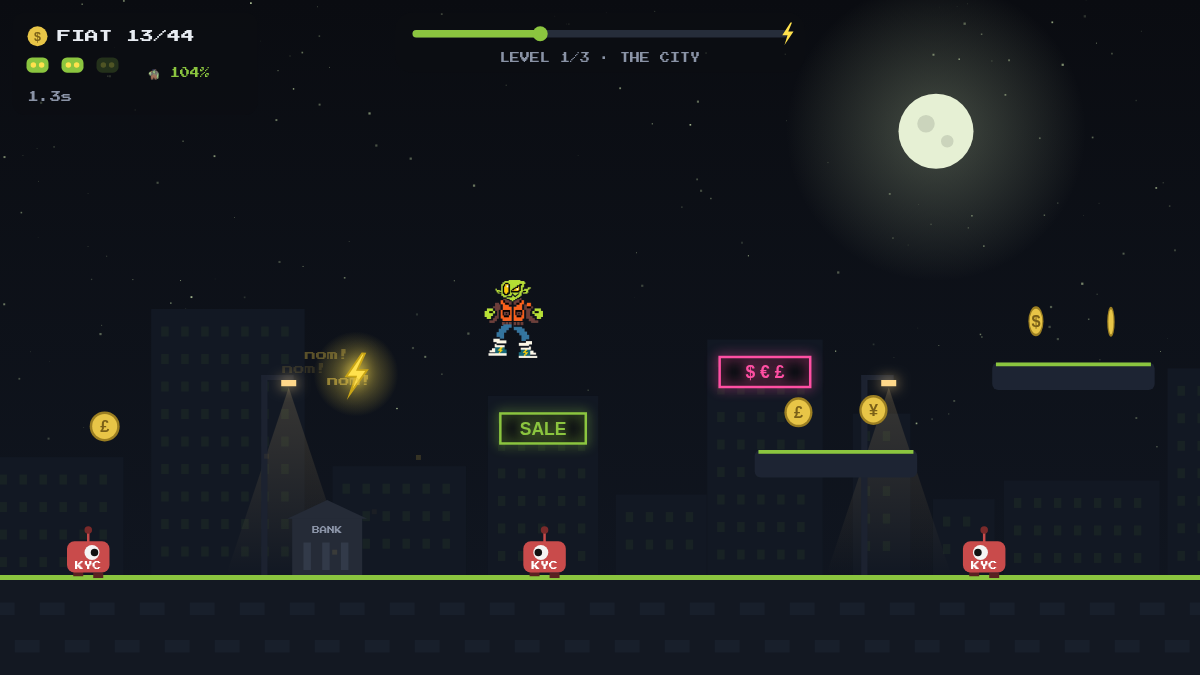
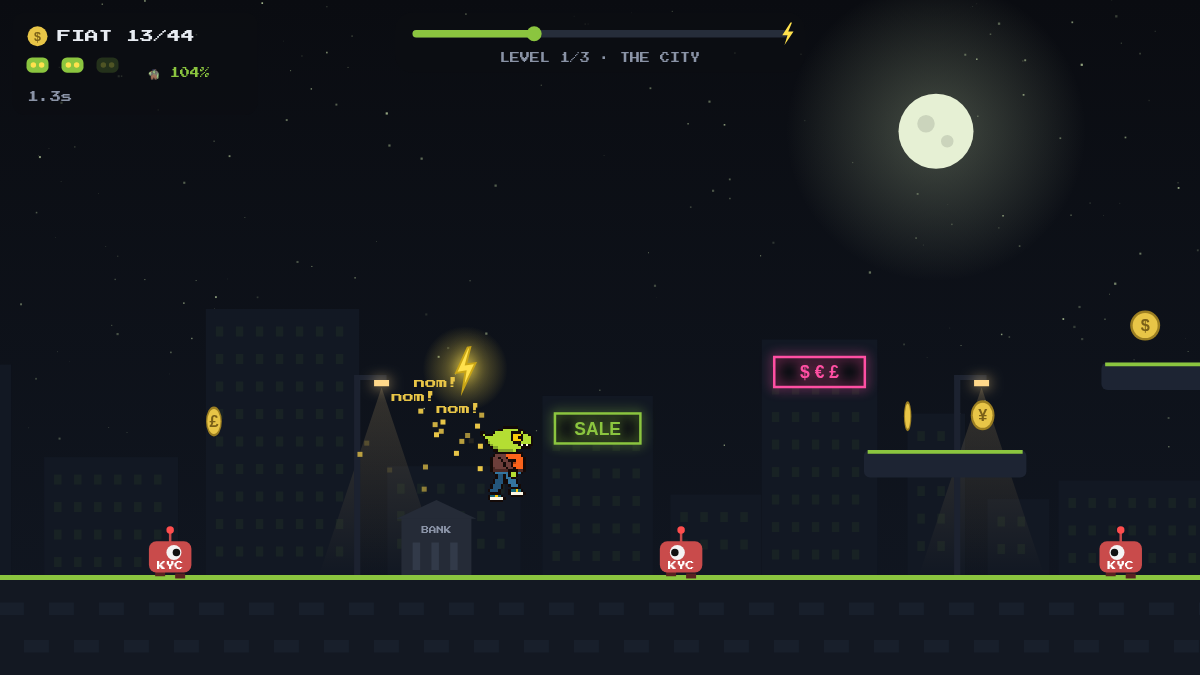
feat: Mostro walks in profile with a walk cycle and faces where he goes
- New side-view Mostro sprite, drawn in code as pixel art with the
  original palette: profile head with the yellow eye and teeth, orange
  vest, brown jacket, jeans and the bolt sneakers.
- Six-frame walk cycle (alternating legs, arm swing, body bob) that
  advances with speed, plus idle and jump poses.
- The sprite mirrors when Mostro moves left.
- Aylu's front-facing sprite stays on the start screen; the unused second
  front frame is removed.
- Refresh the teaser / og:image screenshot with the new sprite.

Claude-Session: https://claude.ai/code/session_016wLvLzD3KPHNEqhAUM2F8M

diff --git a/src/pages/run/_game.html b/src/pages/run/_game.html
@@ -588,6 +588,7 @@ function update(){
   else if(keys.right){p.vx=Math.min(p.vx+.6,maxV);p.face=1;}
   else p.vx*=.78;
   if(Math.abs(p.vx)<.05)p.vx=0;
+  p.walk=((p.walk||0)+Math.abs(p.vx)*.06)%6; // walk-cycle frame, advances with speed
   p.coyote=p.onGround?6:p.coyote-1;
   if(keys.jumpPressed){p.jumpBuf=8;keys.jumpPressed=false;}else p.jumpBuf--;
   if(p.jumpBuf>0&&p.coyote>0){p.vy=boost?-13.6:-12.8;p.coyote=0;p.jumpBuf=0;sfx('jump');}
@@ -953,9 +954,73 @@ function drawIllumination(){
 }
 
 // ================= drawing: characters =================
-const MSPR=[new Image(),new Image()];
+// Front-facing Mostro by Aylu, shown on the start screen.
+const MSPR=[new Image()];
[2 lines of base64/hex data omitted]
+// ================= Mostro side-view sprite =================
+// Pixel art drawn in code, facing right; drawMostro mirrors it when Mostro walks left.
+// Palette taken from the original front-facing sprite.
+const MPAL={K:'#140a08',G:'#b4de33',g:'#86a72a',Y:'#f9ca09',W:'#fdf7e5',O:'#fb631b',o:'#b84612',
+  B:'#6d3e3a',b:'#4b2824',J:'#34749e',j:'#24557a',S:'#fdf7e5',T:'#186878',L:'#f9ca09'};
+const MW=26,MH=31,M_HIP=19,M_ANKLE=26;
+const M_HEAD=[
+  '..........KKKKKK',
+  '........KKGGGGGGKK',
+  '.KK...KGGGGGGKKKKGK',
+  '.KGKKKGGGGGGGKYYYKGGK',
+  '..KGGGGGGGGGGKYYKKGGGK',
+  '...KGGGGGGGGGKYYYKGGGK',
+  '...KgGGGGGGGGGKKKGGGGK',
+  '....KgGGGGGGGGGGKWKWKK',
+  '.....KggGGGGGGGGGKKKK',
+  '......KKggggggGK'];
+const M_BODY=[
+  '.......KKKKKKKKKKK',
+  '......KBBBBOOOOOOK',
+  '.....KBBBBBOOOOOOOK',
+  '.....KBBBBBOOKKOOOK',
+  '.....KBBBBBOOKoOOOK',
+  '.....KBBBBBOOOOOOOK',
+  '.....KbBBBBOOOOOOOK',
+  '.....KbbbbbbbbbbbbK',
+  '......KJJJJJJJJJJK'];
+const M_SHOE=['.KKKK..','KTTLTK.','KSSSSSK','.KKKKK.'];
+const M_HAND=['.KK.','KGGK','KGGK','.KK.'];
+function mPx(c,x,y,k){if(k==='.')return;c.fillStyle=MPAL[k];c.fillRect(x,y,1,1);}
+function mMap(c,map,ox,oy){map.forEach((row,y)=>{for(let x=0;x<row.length;x++)mPx(c,ox+x,oy+y,row[x]);});}
+// One leg: jeans from the hip to the ankle, leaning dx pixels; the foot is raised by lift.
+function mLeg(c,hipX,hipY,dx,lift,dark){
+  const ank=M_ANKLE-lift,span=Math.max(1,M_ANKLE-hipY);
+  let x=hipX;
+  for(let y=hipY;y<=ank;y++){
+    x=hipX+Math.round(dx*(y-hipY)/span);
+    mPx(c,x-1,y,'K');mPx(c,x,y,dark?'j':'J');mPx(c,x+1,y,dark?'j':'J');mPx(c,x+2,y,dark?'j':'J');mPx(c,x+3,y,'K');
+  }
+  mMap(c,M_SHOE,x-1,ank+1);
+}
+function mArm(c,bob,dx){
+  let x=9;
+  for(let i=0;i<6;i++){x=9+Math.round(dx*i/5);const y=12+bob+i;mPx(c,x-1,y,'K');mPx(c,x,y,'B');mPx(c,x+1,y,'B');mPx(c,x+2,y,'K');}
+  mMap(c,M_HAND,x-1,17+bob);
+}
+// pose: {front:[dx,lift], back:[dx,lift], arm:dx, bob}
+function mFrame(pose){
+  const cv=document.createElement('canvas');cv.width=MW;cv.height=MH;const c=cv.getContext('2d');
+  const b=pose.bob;
+  mLeg(c,8,M_HIP+b,pose.back[0],pose.back[1],true);
+  mMap(c,M_BODY,0,10+b);
+  mLeg(c,11,M_HIP+b,pose.front[0],pose.front[1],false);
+  mMap(c,M_HEAD,0,b);
+  mArm(c,b,pose.arm);
+  return cv;
+}
+const M_WALK=[0,1,2,3,4,5].map(f=>{
+  const a=f*Math.PI/3,s=Math.sin(a),co=Math.cos(a);
+  return mFrame({front:[Math.round(4*s),co>0.1?Math.round(2*co):0],back:[Math.round(-4*s),co<-0.1?Math.round(-2*co):0],
+    arm:Math.round(-3*s),bob:Math.abs(s)>0.7?1:0});
+});
+const M_IDLE=mFrame({front:[1,0],back:[-1,0],arm:0,bob:0});
+const M_JUMP=mFrame({front:[3,3],back:[-3,1],arm:4,bob:0});
 function drawMostro(x,y,s,face,moving,chew,blink,boost,air){
   const w=34*s,h=58*s;
   ctx.save();
@@ -964,11 +1029,17 @@ function drawMostro(x,y,s,face,moving,chew,blink,boost,air){
     const rg=ctx.createRadialGradient(cx,cy,4,cx,cy,h*.9);rg.addColorStop(0,`rgba(255,225,77,${a})`);rg.addColorStop(1,'rgba(255,225,77,0)');
     ctx.fillStyle=rg;ctx.beginPath();ctx.arc(cx,cy,h*.9,0,7);ctx.fill();
   }
-  const img=(air||(moving&&Math.floor(t/7)%2))?MSPR[1]:MSPR[0];
-  if(img.complete&&img.naturalWidth){
-    const dh=h*1.04,dw=dh*img.naturalWidth/img.naturalHeight;
-    const squash=chew>0?.97:1;
-    ctx.drawImage(img,x+w/2-dw/2,y+h-dh*squash,dw,dh*squash);
+  const squash=chew>0?.97:1,dh=h*1.04;
+  if(state==='menu'){
+    const img=MSPR[0];
+    if(img.complete&&img.naturalWidth){const dw=dh*img.naturalWidth/img.naturalHeight;ctx.drawImage(img,x+w/2-dw/2,y+h-dh*squash,dw,dh*squash);}
+  }else{
+    const spr=air?M_JUMP:moving?M_WALK[Math.floor(p.walk)%M_WALK.length]:M_IDLE;
+    const dw=dh*MW/MH;
+    ctx.imageSmoothingEnabled=false;
+    ctx.translate(x+w/2,0);if(face<0)ctx.scale(-1,1);
+    ctx.drawImage(spr,-dw/2,y+h-dh*squash,dw,dh*squash);
+    ctx.setTransform(scale,0,0,scale,0,0);
   }
   if(boost&&t%6<3){ctx.beginPath();const r=seeded(t);ctx.moveTo(x-4,y+h*.3);for(let i=0;i<5;i++)ctx.lineTo(x-4+i*(w+8)/4,y+h*.2+r()*h*.5);strokeBolt(2.5,.8);}
   ctx.restore();
